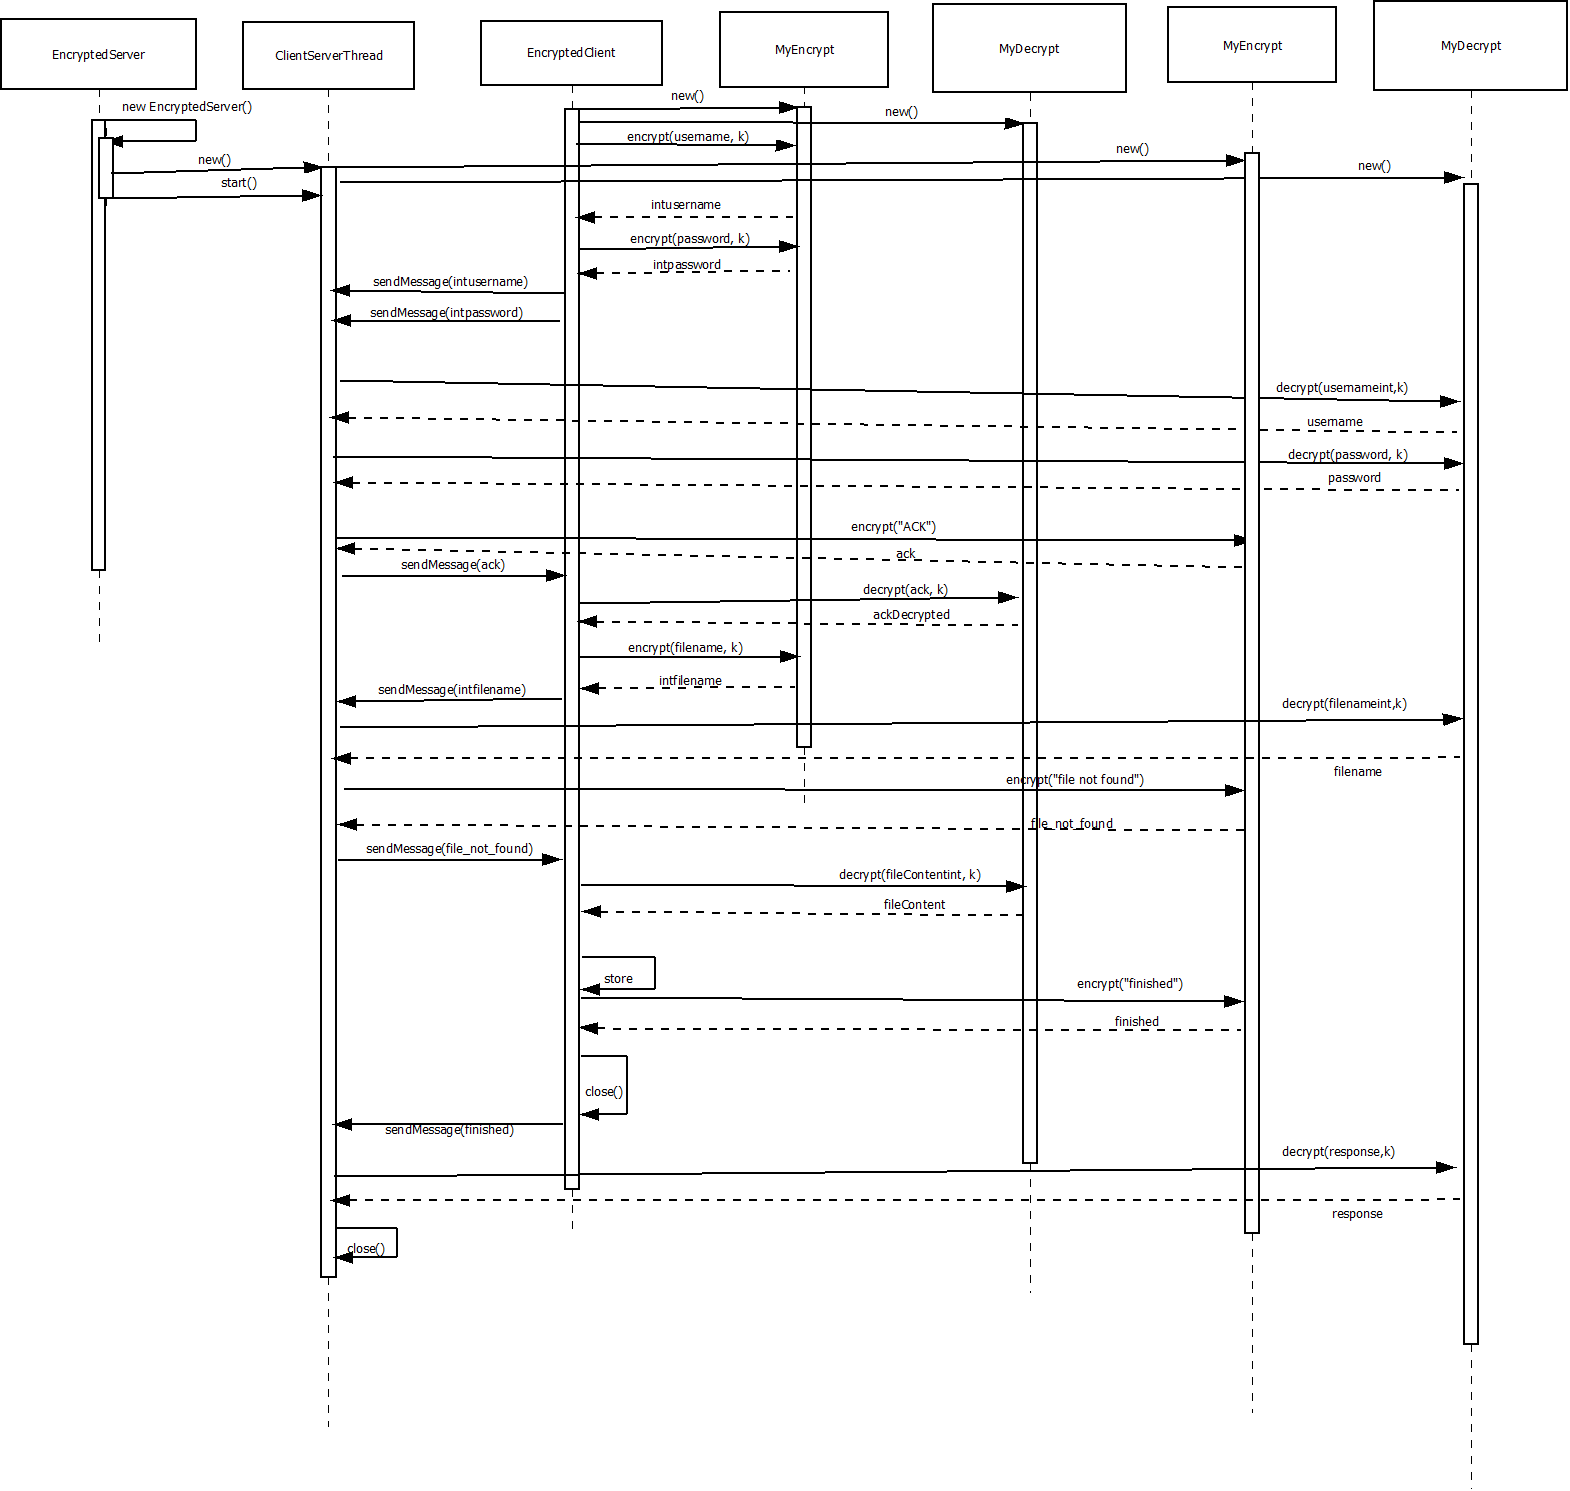
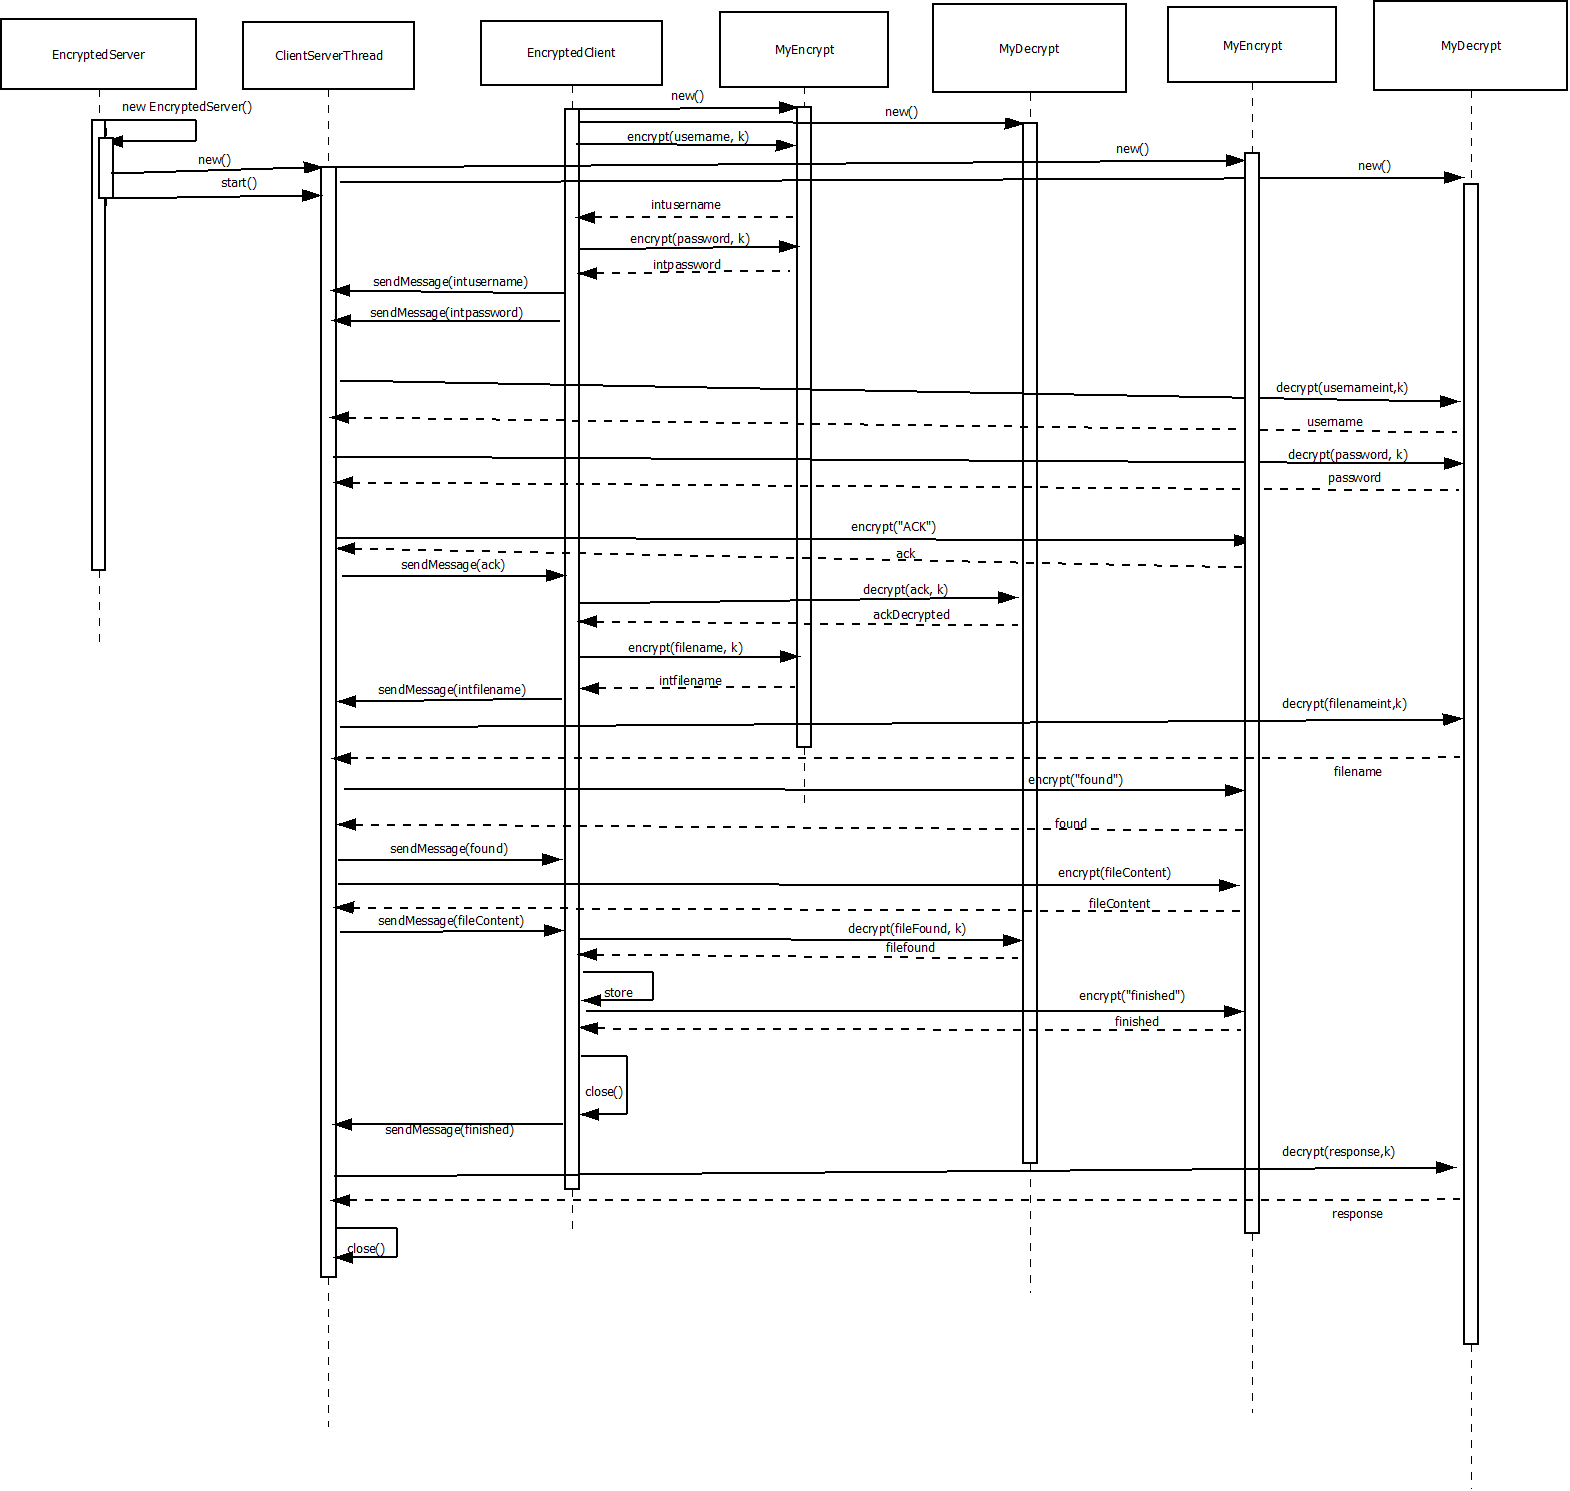
readme and other stuff

diff --git a/EncryptedServer.java b/EncryptedServer.java
@@ -130,9 +130,6 @@ public class EncryptedServer {
     	System.loadLibrary("encrypt");
     	System.loadLibrary("decrypt");
     	
-//    	String test = "Hello World!1234";
-
-//  	  try{
   		  
   		
   		String hashKeyString = "2fc14f685474c6ca";
@@ -225,7 +222,6 @@ public class EncryptedServer {
 		    	    try {
 		    	        hash[i] = Integer.parseInt(shadowHasharr[i]);
 		    	    } catch (NumberFormatException nfe) {
-		    	        //NOTE: write something here if you need to recover from formatting errors
 		    	    };
 		    	}
 		    	List<Object> Salt = new ArrayList<Object>();
@@ -248,146 +244,6 @@ public class EncryptedServer {
   	  
 	    new EncryptedServer();
 	    
-  		
-  		  
-  		 //***************************************************************************************************************** 
-//  	    serverSocket = new ServerSocket(16000); 
-//  	    System.out.println("waiting for client connection");
-//  	    clientSocket = serverSocket.accept();
-//  	    System.out.println("socket connected to a client");
-
-//  	    out = new ObjectOutputStream(clientSocket.getOutputStream());
-//	    in = new ObjectInputStream(clientSocket.getInputStream());
-	    
-//	    String finished = null;
-////	    while( !finished.equals("finished")) {}
-//	    KeyPairGenerator keyPairGenerator = KeyPairGenerator.getInstance("DH");
-//	    keyPairGenerator.initialize(512);
-//	    KeyPair keyPair = keyPairGenerator.generateKeyPair();
-//	    PrivateKey privateKey  = keyPair.getPrivate();
-//	    PublicKey publicKey = keyPair.getPublic();
-//	    
-//	    PublicKey clientPublickey = (PublicKey)in.readObject();
-////	    System.out.println("got public key: " + clientPublickey);
-////	    System.out.println("sending my public key: " + publicKey);
-//	    out.writeObject(publicKey);
-//        out.flush();
-//        
-//        KeyAgreement keyAgreement = KeyAgreement.getInstance("DH");
-//	    keyAgreement.init(privateKey);
-//	    keyAgreement.doPhase(clientPublickey, true);
-//	    byte[] secretKey = new byte[16];
-//	    System.arraycopy(keyAgreement.generateSecret(), 0, secretKey, 0, secretKey.length);
-//	    
-////	    System.out.println("key as a byte[]: " + secretKey + "with size: " + secretKey.length);
-//	    
-//	    intBuf =
-//	    		   ByteBuffer.wrap(secretKey)
-//	    		     .order(ByteOrder.BIG_ENDIAN)
-//	    		     .asIntBuffer();
-//	    		 int[] k = new int[intBuf.remaining()];
-//	    		 intBuf.get(k);
-//	        
-////	    System.out.println("key as int[]: " + Arrays.toString(k));
-//	    
-////	    System.out.println("v after it was encrypted: " + Arrays.toString(v));
-//	    
-////	    System.out.println("key as a byte[]: " + secretKey + "with size: " + secretKey.length);
-//	    
-//	    		 
-//	    boolean loggingin = true;
-//	    while (loggingin) {
-//	        int[] usernameint = (int[])in.readObject();
-//	        int[] passwordint = (int[])in.readObject();
-//	        
-//	        String username = decryptintarr(usernameint, k).trim();
-//	        String password = decryptintarr(passwordint, k).trim();
-//	        
-////		    System.out.println("username: " + username);
-////		    System.out.println("password: " + password);
-//	  	    
-//		    try {
-//			    List<Object> saltValues = shadowTable.get(username);
-////			    System.out.println("saltvalues: " + saltValues);
-//			    String salt = (String) saltValues.get(0);
-//			    int[] hashValue = (int[]) saltValues.get(1);
-//			    String hashedString = decryptintarr(hashValue, hashk);
-//			    String foundPassword = hashedString.replaceAll(Pattern.quote(salt), "").trim();
-//			    
-////			    System.out.println("is this your password? " + foundPassword);
-//			    
-//			    if(foundPassword.equals(password)) {
-//			    	int[] ack = encryptString("ACK", k);
-//			    	sendMessage(ack);
-//			    }
-//			    else {
-//			    	int[] error = encryptString("ERROR", k);
-//			    	sendMessage(error);
-//			    }
-//		    }catch (NullPointerException e) {
-//		    	int[] error = encryptString("ERROR", k);
-//		    	sendMessage(error);
-//		    }
-//		    
-//		    String loginResponse = decryptintarr((int[])in.readObject(), k).trim();
-////		    System.out.println("client login response " + loginResponse);
-//		    
-//		    if (loginResponse.equals("again")) {
-//		    	loggingin = true;
-//		    }
-//		    else if (loginResponse.equals("finished")){
-//		      try {
-//		    	in.close();
-//	              out.close();
-//	              serverSocket.close();
-//	          }
-//	          catch(IOException ioException){
-//	              ioException.printStackTrace();
-//	          }
-//		    	loggingin = false;
-//		    }
-//		    else if (loginResponse.equals("filename")){
-//		    	loggingin = false;
-//		    }
-//	    }
-//	    String readingFile = "continue";
-//	    while (!readingFile.equals("finished")) {
-//		    int[] filenameint = (int[])in.readObject();
-//		    String filename = decryptintarr(filenameint, k).trim();
-//		    
-////		    System.out.println("filename with decryption: " + filename);
-//		    
-//		    try {
-//			    File file = new File(filename);
-//			    byte[] fileContent = Files.readAllBytes(file.toPath());
-//			  	    
-//			    String fileContentString = new String(fileContent, "UTF-8");
-//			    
-//			    sendMessage(encryptString(fileContentString, k));
-//		    }
-//		    catch (Exception e) {
-//		    	System.out.println("error in finding file");
-//		    	sendMessage(encryptString("file not found", k));
-//		    }
-//		    readingFile = decryptintarr((int[])in.readObject(), k).trim();
-//	    }
-//  	  }
-//	    
-//	   catch (IOException e) {
-//	  	    System.out.println("Could not listen on port 16000");
-//	  	    System.exit(-1);
-//	  	  
-//  	  }finally{
-//	    //4: Closing connection
-//	    try{
-//	        in.close();
-//	        out.close();
-//	        serverSocket.close();
-//	    }
-//	    catch(IOException ioException){
-//	        ioException.printStackTrace();
-//	    }
-//  	  }
     }
 	      	    
     
@@ -432,7 +288,6 @@ public class EncryptedServer {
     				
     				
 	    			String finished = null;
-	//    		    while( !finished.equals("finished")) {}
 	    		    KeyPairGenerator keyPairGenerator = KeyPairGenerator.getInstance("DH");
 	    		    keyPairGenerator.initialize(512);
 	    		    KeyPair keyPair = keyPairGenerator.generateKeyPair();
@@ -481,10 +336,7 @@ public class EncryptedServer {
 	    			    try {
 //	    			    	System.out.println("searching for user " + username);
 	    				    List<Object> saltValues = shadowTable.get(username);
-//	    				    List<Object> testList = shadowTable.get(username);
-//	    				    System.out.println((String)testList.get(0));
-//	    				    System.out.println(Arrays.toString((int[])testList.get(1)));
-	//    				    System.out.println("saltvalues: " + saltValues);
+
 	    				    String salt = (String) saltValues.get(0);
 	    				    int[] hashValue = (int[]) saltValues.get(1);
 //	    				    System.out.println(Arrays.toString(hashValue));
@@ -503,7 +355,7 @@ public class EncryptedServer {
 	    				    	sendMessage(error);
 	    				    }
 	    			    }catch (NullPointerException e) {
-	    			    	System.out.println("nullpointer error");
+	    			    	System.out.println("user not found error");
 	    			    	int[] error = encryptString("ERROR", k);
 	    			    	sendMessage(error);
 	    			    }
@@ -515,16 +367,7 @@ public class EncryptedServer {
 	    			    	loggingin = true;
 	    			    }
 	    			    else if (loginResponse.equals("finished")){
-//	    			      try {
-//	    			    	in.close();
-//	    		              out.close();
-//	    		              clientServerSocket.close();
-//	    	    		      this.stop();
-//	
-//	    		          }
-//	    		          catch(IOException ioException){
-//	    		              ioException.printStackTrace();
-//	    		          }
+
 	    			    	threadRunning = false;
 	    			    }
 	    			    else if (loginResponse.equals("filename")){
@@ -543,7 +386,7 @@ public class EncryptedServer {
 	    				    byte[] fileContent = Files.readAllBytes(file.toPath());
 	    				  	    
 	    				    String fileContentString = new String(fileContent, "UTF-8");
-	    				    
+	    				    sendMessage(encryptString("found", k));
 	    				    sendMessage(encryptString(fileContentString, k));
 	    			    }
 	    			    catch (Exception e) {
@@ -572,7 +415,6 @@ public class EncryptedServer {
 				System.out.println("invalid key");
 				e1.printStackTrace();
 			}finally{
-    		    //4: Closing connection
     		    try{
     		        in.close();
     		        out.close();

diff --git a/EncryptedClient.java b/EncryptedClient.java
@@ -135,7 +135,6 @@ public class EncryptedClient {
 	    	    byte[] secretKey = new byte[16];
 	    	    System.arraycopy(keyAgreement.generateSecret(), 0, secretKey, 0, secretKey.length);
 	    	    
-	    	    //************************************************************************
 	    	    IntBuffer intBuf =
 	    	    		   ByteBuffer.wrap(secretKey)
 	    	    		     .order(ByteOrder.BIG_ENDIAN)
@@ -242,8 +241,16 @@ public class EncryptedClient {
 		    	    
 		    	    String fileContent = null;
 		    	    
-		    	    int[] fileContentint = (int[])in.readObject();
-	                fileContent = decryptintarr(fileContentint, k).trim();
+		    	    int[] fileFoundint = (int[])in.readObject();
+		    	    String fileFound = decryptintarr(fileFoundint, k).trim();
+		    	    if (fileFound.equals("found")) {
+			    	    int[] fileContentint = (int[])in.readObject();
+		                fileContent = decryptintarr(fileContentint, k).trim();
+
+		    	    }
+		    	    else {
+		    	    	fileContent = "file not found";
+		    	    }
 //	                System.out.println("recieved file content: " + fileContent);
 	                
 	                String keepSearching = "y";
@@ -310,7 +317,6 @@ public class EncryptedClient {
 		                        catch(IOException ioException){
 		                            ioException.printStackTrace();
 		                        }
-//			                	gettingFile =false;
 			                }
 			                else if (keepSearching.equals("y")) {
 			                	sendMessage(encryptString("again", k));
@@ -326,40 +332,13 @@ public class EncryptedClient {
                 }
 		}
 	    	 			    
-//			    String message = null;
-//			    
-//			    sendMessage("Connection successful");
-////                System.out.println("sent message");
-//                
-//
-//			    do{
-////                    System.out.println("sent message");
-//
-//	                try{
-////	                    System.out.println("sent message");
-//
-//	                    message = (String)in.readObject();
-//	                    System.out.println("server>" + message);
-//	                    sendMessage("Hi my server");
-//	                    message = "bye";
-//	                    sendMessage(message);
-//	                    System.out.println("sent message");
-//	                }
-//	                catch(ClassNotFoundException classNot){
-//	                    System.err.println("data received in unknown format");
-//	                }
-//	            }while(!message.equals("bye"));
-//			    
-//			    
-//			    
+
 		catch (IOException e) {
 		  	    System.out.println("Could not listen on port 16000");
 		  	    System.exit(-1);
-		  	  
-		        
+		  	        
 		}
         finally{
-            //4: Closing connection
             try{
                 in.close();
                 out.close();

diff --git a/README.md b/README.md
@@ -1,1 +1,27 @@
 # ECE422_server_client_encryption
+How to run:
+$> make
+then copy this line and enter
+$> export LD_LIBRARY_PATH=D_LIBRARY_PATH:.
+
+all communication is done via TEA. with keys exchanged via Diffie Hellman
+
+for Server
+$> java EncryptedServer
+will be prompted if you want to add users (y/n)
+if y
+    user information is encrypted with TEA into a shadowTable
+    $ Username: <username>
+    $ Password: <password>
+    then will be prompted to keep adding (y/n)
+else
+    server now just sits there nd waits for clients. Notifies if a client is trying to connect, and when a client disconnects
+
+for Client
+$ Username: <username>
+$ Password: <password>
+if successful, client is prompted for filename, otherwise asked if they would like to connect again
+$ Filename: <filename to be read, can only read local files of the Server>
+informed if read was successful or not and asked if client likes to do again
+all files read will be stored in the user's file labeled under their username
+
